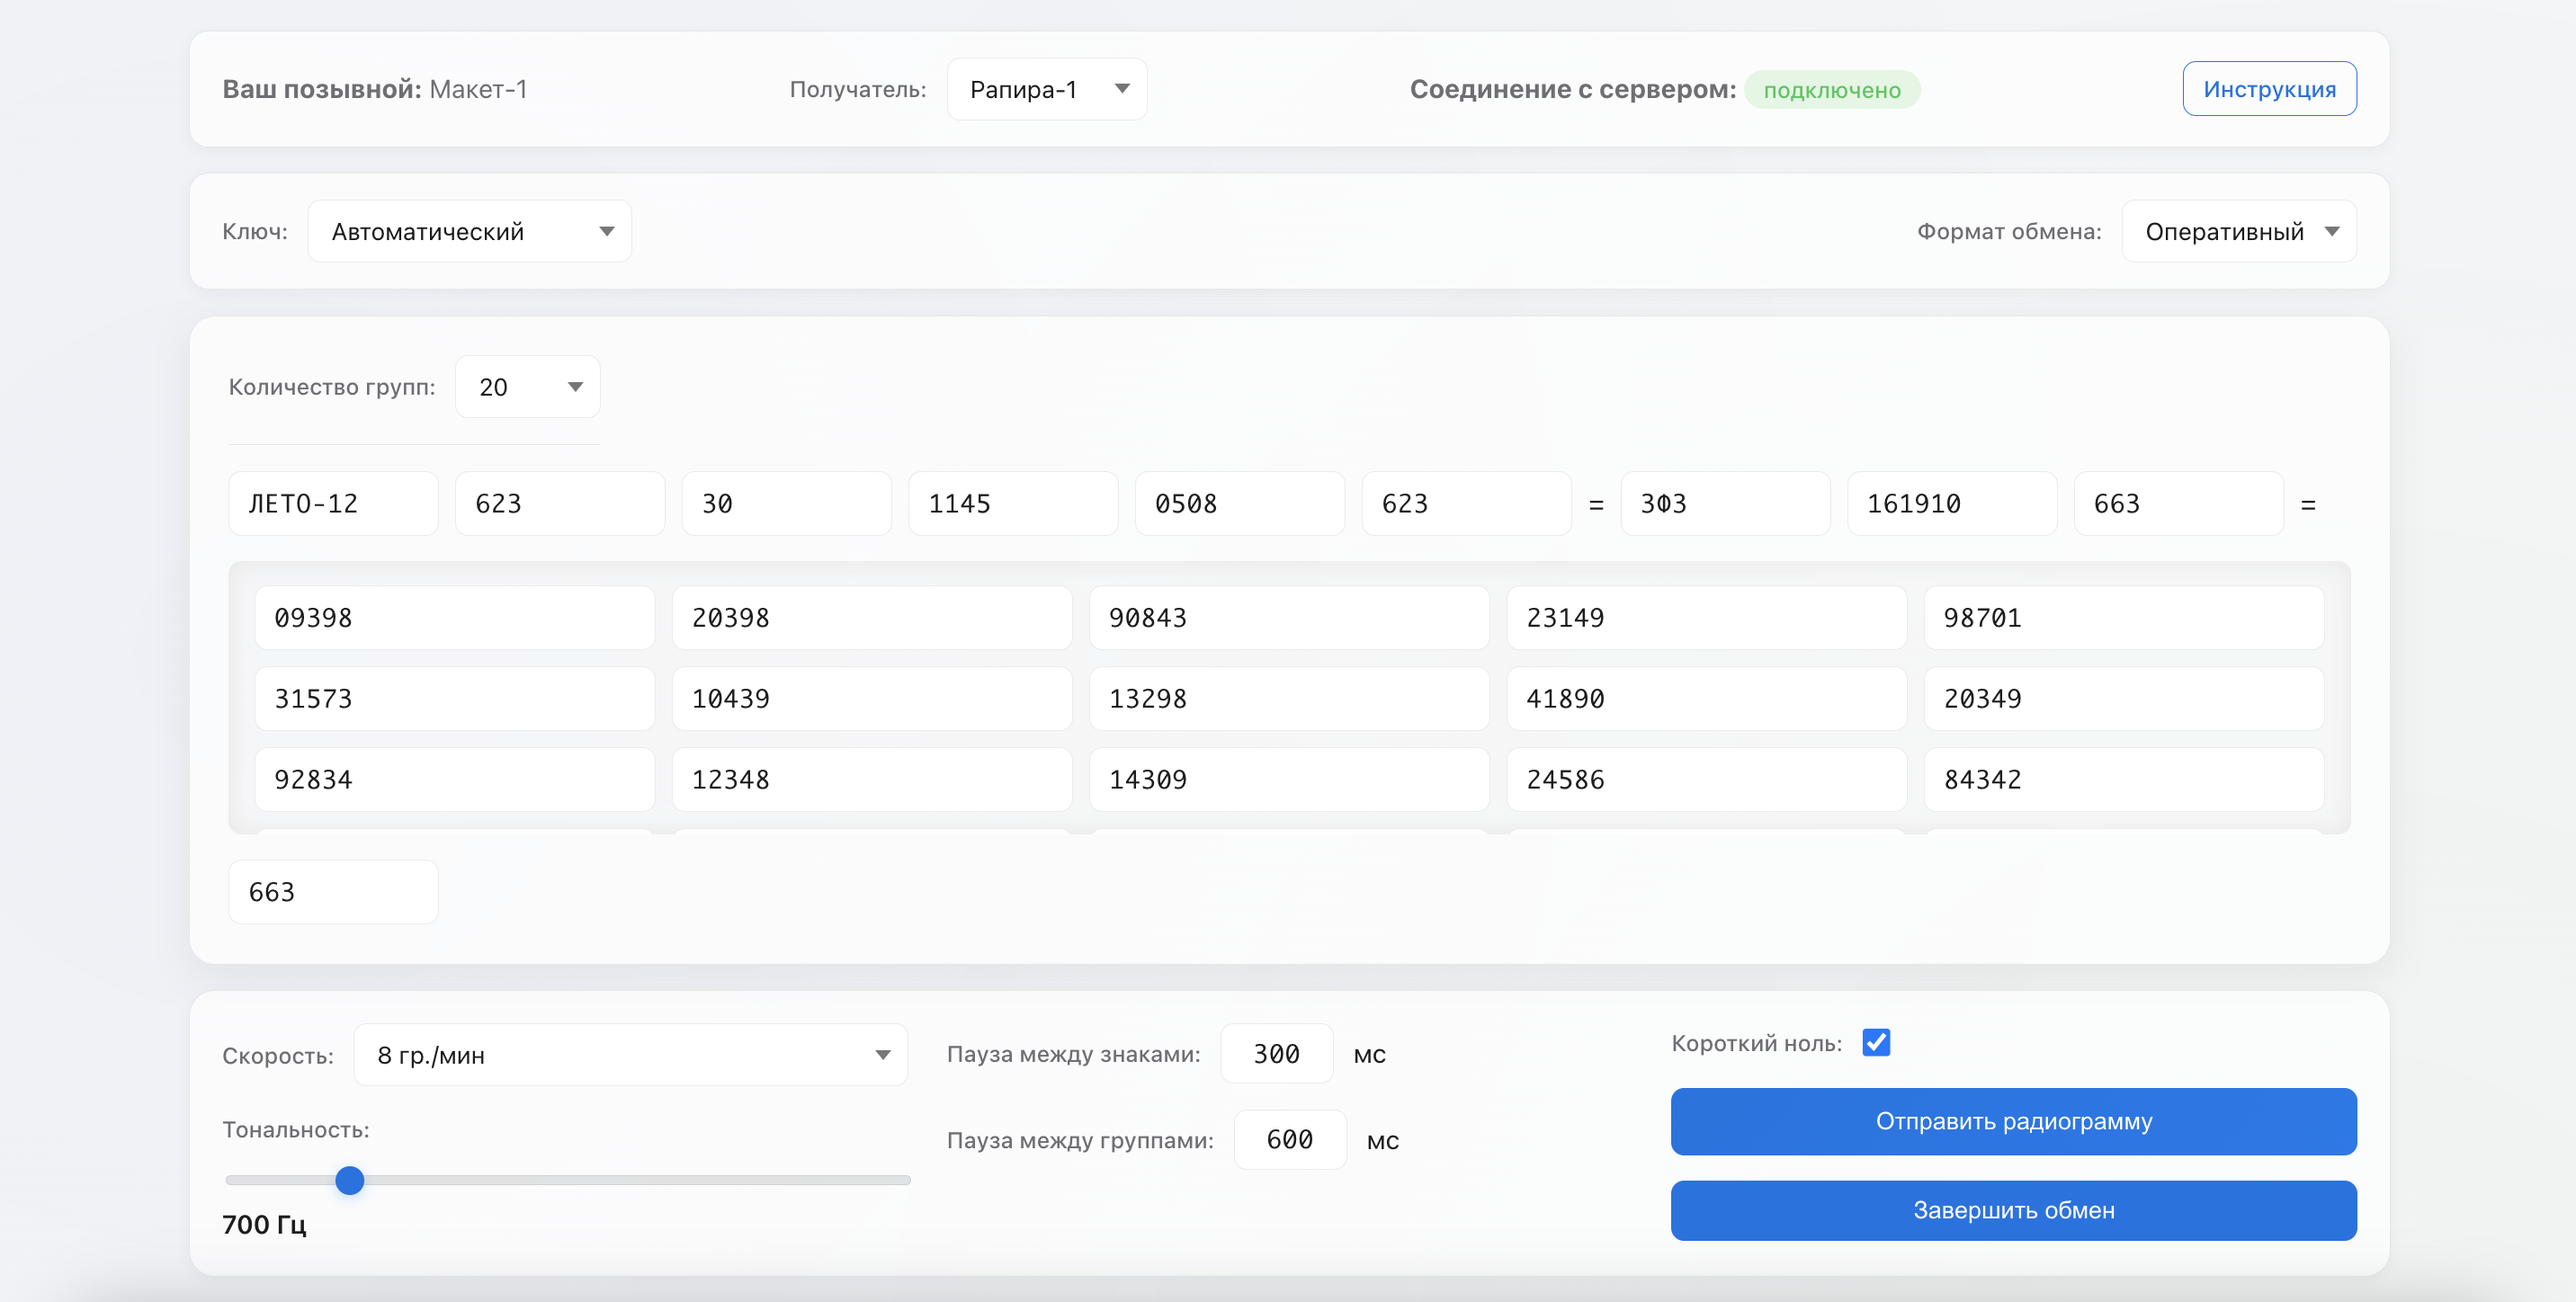
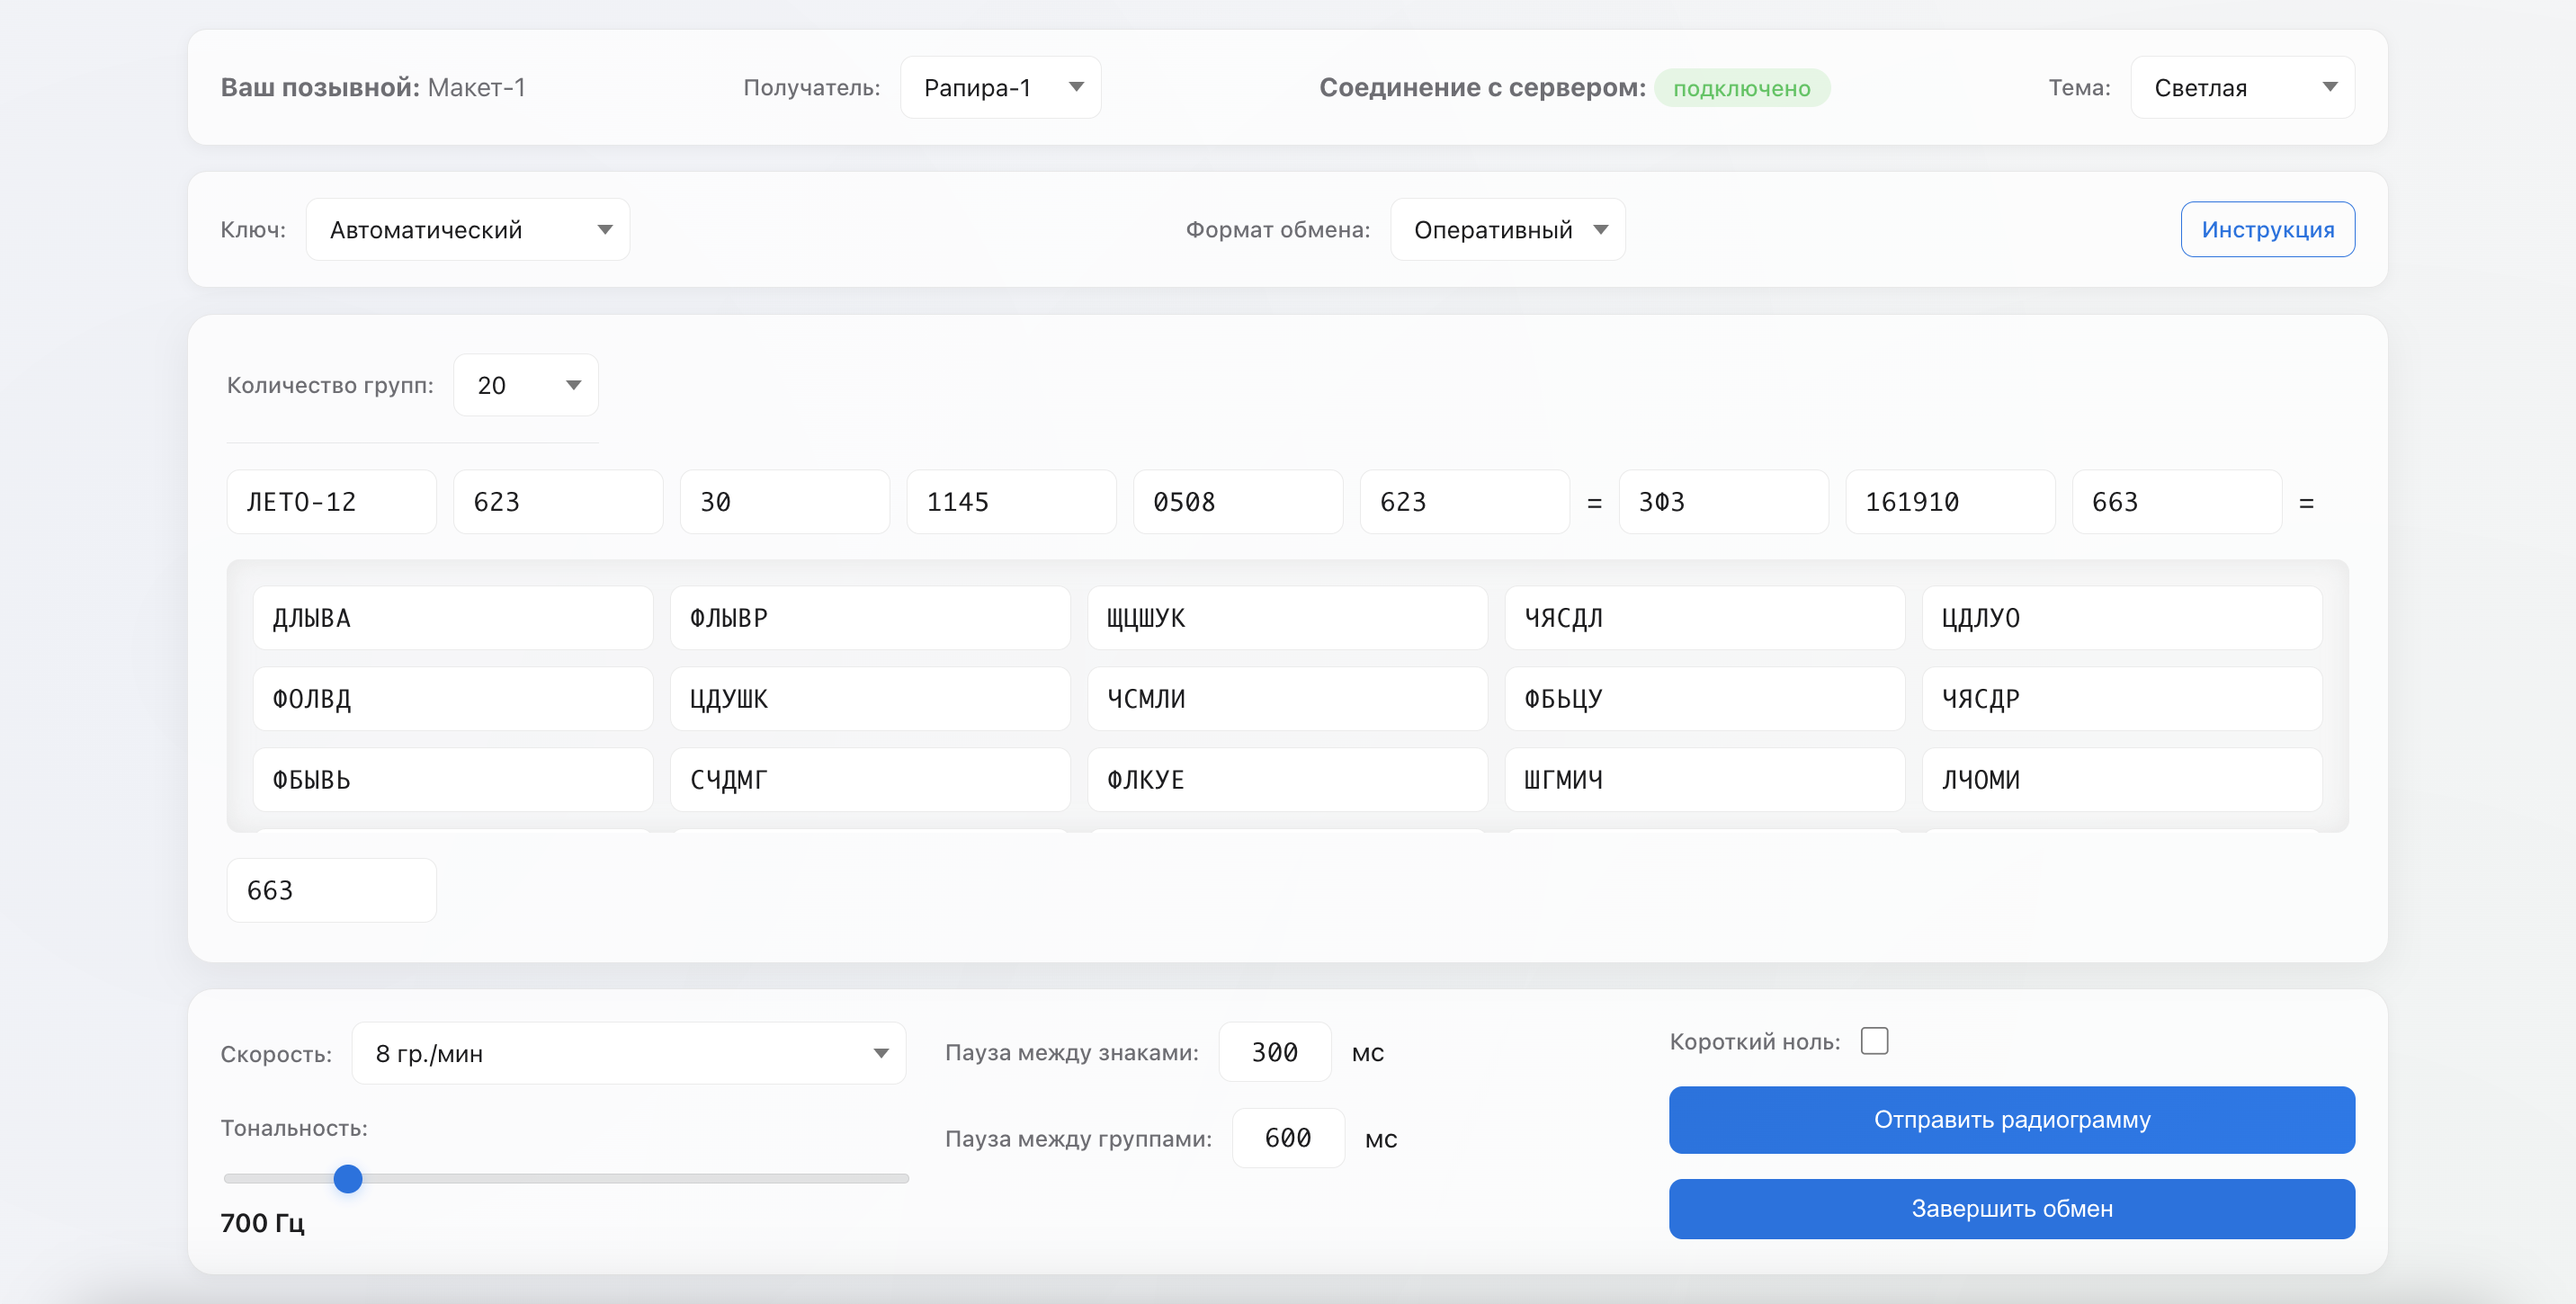
feat: added dark, light and contrast themes

diff --git a/app-user/src/ui/styles/main.css b/app-user/src/ui/styles/main.css
@@ -26,6 +26,7 @@
     --gradient-accent-1: rgba(0, 113, 227, 0.03);
     --gradient-accent-2: rgba(52, 199, 89, 0.03);
     --container-overlay: rgba(0, 0, 0, 0.02);
+    --container-inset-shadow: #e6e6e6;
     --scrollbar-bg: rgba(0, 0, 0, 0.1);
     --scrollbar-hover: rgba(0, 0, 0, 0.2);
 
@@ -37,36 +38,108 @@
     --transition-base: 250ms cubic-bezier(0.4, 0, 0.2, 1);
 }
 
+/* =============== Cветлая тема =============== */
+:root[data-theme='light'] {
+    --bg-primary: #f5f5f7;
+    --bg-secondary: #ffffff;
+    --bg-glass: rgba(255, 255, 255, 0.72);
+    --bg-glass-hover: rgba(255, 255, 255, 0.85);
+
+    --text-primary: #1d1d1f;
+    --text-secondary: #6e6e73;
+    --text-muted: #86868b;
+
+    --accent-primary: #0071e3;
+    --accent-hover: #0077ed;
+    --accent-success: #34c759;
+    --accent-error: #ff3b30;
+
+    --border-color: rgba(0, 0, 0, 0.08);
+    --shadow-sm: 0 2px 8px rgba(0, 0, 0, 0.04);
+    --shadow-md: 0 8px 24px rgba(0, 0, 0, 0.06);
+    --shadow-lg: 0 12px 48px rgba(0, 0, 0, 0.08);
+
+    --input-bg: #ffffff;
+    --input-focus-shadow: rgba(0, 113, 227, 0.1);
+    --gradient-accent-1: rgba(0, 113, 227, 0.03);
+    --gradient-accent-2: rgba(52, 199, 89, 0.03);
+    --container-overlay: rgba(0, 0, 0, 0.02);
+    --container-inset-shadow: #e6e6e6;
+    --scrollbar-bg: rgba(0, 0, 0, 0.1);
+    --scrollbar-hover: rgba(0, 0, 0, 0.2);
+}
+
 /* =============== Тёмная тема =============== */
-@media (prefers-color-scheme: dark) {
-    :root {
-        --bg-primary: #000000;
-        --bg-secondary: #1d1d1f;
-        --bg-glass: rgba(30, 30, 30, 0.72);
-        --bg-glass-hover: rgba(40, 40, 40, 0.85);
+:root[data-theme='dark'] {
+    --bg-primary: #000000;
+    --bg-secondary: #1d1d1f;
+    --bg-glass: rgba(30, 30, 30, 0.72);
+    --bg-glass-hover: rgba(40, 40, 40, 0.85);
 
-        --text-primary: #f5f5f7;
-        --text-secondary: #a1a1a6;
-        --text-muted: #6e6e73;
+    --text-primary: #f5f5f7;
+    --text-secondary: #a1a1a6;
+    --text-muted: #6e6e73;
 
-        --accent-primary: #0a84ff;
-        --accent-hover: #409cff;
-        --accent-success: #32d74b;
-        --accent-error: #ff453a;
+    --accent-primary: #0a84ff;
+    --accent-hover: #409cff;
+    --accent-success: #32d74b;
+    --accent-error: #ff453a;
 
-        --border-color: rgba(255, 255, 255, 0.08);
-        --shadow-sm: 0 2px 8px rgba(0, 0, 0, 0.3);
-        --shadow-md: 0 8px 24px rgba(0, 0, 0, 0.4);
-        --shadow-lg: 0 12px 48px rgba(0, 0, 0, 0.5);
+    --border-color: rgba(255, 255, 255, 0.08);
+    --shadow-sm: 0 2px 8px rgba(0, 0, 0, 0.3);
+    --shadow-md: 0 8px 24px rgba(0, 0, 0, 0.4);
+    --shadow-lg: 0 12px 48px rgba(0, 0, 0, 0.5);
 
-        --input-bg: #2c2c2e;
-        --input-focus-shadow: rgba(10, 132, 255, 0.2);
-        --gradient-accent-1: rgba(10, 132, 255, 0.05);
-        --gradient-accent-2: rgba(50, 215, 75, 0.05);
-        --container-overlay: rgba(255, 255, 255, 0.02);
-        --scrollbar-bg: rgba(255, 255, 255, 0.1);
-        --scrollbar-hover: rgba(255, 255, 255, 0.2);
-    }
+    --input-bg: #2c2c2e;
+    --input-focus-shadow: rgba(10, 132, 255, 0.2);
+    --gradient-accent-1: rgba(10, 132, 255, 0.05);
+    --gradient-accent-2: rgba(50, 215, 75, 0.05);
+    --container-overlay: rgba(255, 255, 255, 0.02);
+    --container-inset-shadow: #1a1a1a;
+    --scrollbar-bg: rgba(255, 255, 255, 0.1);
+    --scrollbar-hover: rgba(255, 255, 255, 0.2);
+}
+
+/* =============== Контрастная тема =============== */
+:root[data-theme='contrast'] {
+    --bg-primary: #ffffff;
+    --bg-secondary: #ffffff;
+    --bg-glass: rgba(255, 255, 255, 0.95);
+    --bg-glass-hover: rgba(255, 255, 255, 1);
+
+    --text-primary: #000000;
+    --text-secondary: #222222;
+    --text-muted: #333333;
+
+    --accent-primary: #005bbb;
+    --accent-hover: #0071e3;
+    --accent-success: #007f00;
+    --accent-error: #bb0000;
+
+    --border-color: #000000;
+
+    --shadow-sm: 0 2px 4px rgba(0, 0, 0, 0.3);
+    --shadow-md: 0 4px 8px rgba(0, 0, 0, 0.4);
+    --shadow-lg: 0 8px 16px rgba(0, 0, 0, 0.5);
+
+    --input-bg: #ffffff;
+    --input-focus-shadow: rgba(0, 91, 187, 0.5);
+    --gradient-accent-1: rgba(0, 91, 187, 0.1);
+    --gradient-accent-2: rgba(0, 127, 0, 0.1);
+    --container-inset-shadow: #bababa;
+    --container-overlay: rgba(0, 0, 0, 0.02);
+
+    --scrollbar-bg: #333333;
+    --scrollbar-hover: #000000;
+}
+
+/* input/select контрастной темы */
+:root[data-theme='contrast'] input,
+:root[data-theme='contrast'] select,
+:root[data-theme='contrast'] textarea {
+    background: var(--input-bg);
+    color: var(--text-primary);
+    border-color: var(--accent-primary);
 }
 
 /* =============== Сброс стилей =============== */
@@ -470,7 +543,7 @@ button:disabled {
     padding: 16px;
     background: var(--container-overlay);
     border-radius: var(--radius-sm);
-    box-shadow: inset 0 0 15px #e6e6e6;
+    box-shadow: inset 0 0 15px var(--container-inset-shadow);
     overflow-y: auto;
     flex: 1;
     min-height: 0;
@@ -505,21 +578,6 @@ button:disabled {
     height: 40px;
     max-width: 130px;
     width: 100%;
-}
-
-#inputContainer {
-    display: grid;
-    grid-template-columns: repeat(5, 1fr);
-    gap: 10px;
-    row-gap: 10px;
-    align-content: start;
-    padding: 16px;
-    background: var(--container-overlay);
-    border-radius: var(--radius-sm);
-    box-shadow: inset 0 0 15px #e6e6e6;
-    overflow-y: auto;
-    flex: 1;
-    min-height: 0;
 }
 
 /* =============== Полуавтоматический интерфейс =============== */

diff --git a/app-user/src/app/main.js b/app-user/src/app/main.js
@@ -10,6 +10,36 @@ import { focusNextInput } from '../ui/utils/focusNextInput.js';
 import { textToMorse } from '../core/morse/converter.js';
 import { SPEED_CONFIG } from '../core/morse/constants.js';
 
+// Управление темой
+const themeKey = 'theme';
+const themeSelector = document.getElementById('themeSelector');
+
+function applyTheme(theme) {
+    if (theme === 'light') {
+        document.documentElement.setAttribute('data-theme', 'light');
+    } else if (theme === 'dark') {
+        document.documentElement.setAttribute('data-theme', 'dark');
+    } else if (theme === 'contrast') {
+        document.documentElement.setAttribute('data-theme', 'contrast');
+    }
+}
+
+(function initTheme() {
+    // системная тема
+    const system = window.matchMedia('(prefers-color-scheme: dark)').matches
+        ? 'dark'
+        : 'light';
+    // сохранённая или system
+    const saved = localStorage.getItem(themeKey) || system;
+    applyTheme(saved);
+    themeSelector.value = saved;
+    themeSelector.addEventListener('change', (e) => {
+        const t = e.target.value;
+        localStorage.setItem(themeKey, t);
+        applyTheme(t);
+    });
+})();
+
 const RECONNECT_INTERVAL_MS = 5000;
 const network = new NetworkService();
 const morseAudioPlayer = new MorseAudioPlayer();
@@ -346,7 +376,7 @@ elements.serviceInput.addEventListener('input', (e) => {
     e.target.value = e.target.value.replace(/[^а-яё0-9 ]/gi, '');
 });
 
-// Полуавто клавиши
+// Полуавтоматические клавиши
 function handleSemiKeyDown(e) {
     if (elements.keyType.value !== 'semi') return;
     const rec = elements.recipientTypeSelector.value;
@@ -372,7 +402,6 @@ function handleSemiKeyDown(e) {
     };
 
     if (e.code === 'ArrowLeft') {
-        // Прекратить dash, если он активен
         if (rightTimer) {
             clearInterval(rightTimer);
             rightTimer = null;
@@ -386,7 +415,6 @@ function handleSemiKeyDown(e) {
     }
 
     if (e.code === 'ArrowRight') {
-        // Прекратить dot, если он активен
         if (leftTimer) {
             clearInterval(leftTimer);
             leftTimer = null;
@@ -446,6 +474,6 @@ function handleManualKeyUp(e) {
     manualActive = false;
     const rec = elements.recipientTypeSelector.value;
     if (!rec) return;
-    network.sendMessage(rec, 'stop', {}); // params можно не передавать
+    network.sendMessage(rec, 'stop', {});
     morseAudioPlayer.stopContinuous();
 }

diff --git a/app-user/src/index.html b/app-user/src/index.html
@@ -50,14 +50,14 @@
                             >не подключено</span
                         >
                     </p>
-                    <a
-                        href="/guide"
-                        target="_blank"
-                        id="manualButton"
-                        class="instruction-button"
-                    >
-                        Инструкция
-                    </a>
+                    <div class="label-wrapper">
+                        <label for="themeSelector">Тема:</label>
+                        <select id="themeSelector">
+                            <option value="light">Светлая</option>
+                            <option value="dark">Тёмная</option>
+                            <option value="contrast">Контрастная</option>
+                        </select>
+                    </div>
                 </div>
                 <div class="second-row-container">
                     <div class="label-wrapper">
@@ -78,6 +78,14 @@
                             <option value="service">Служебный</option>
                         </select>
                     </div>
+                    <a
+                        href="/guide"
+                        target="_blank"
+                        id="manualButton"
+                        class="instruction-button"
+                    >
+                        Инструкция
+                    </a>
                 </div>
             </div>
 
